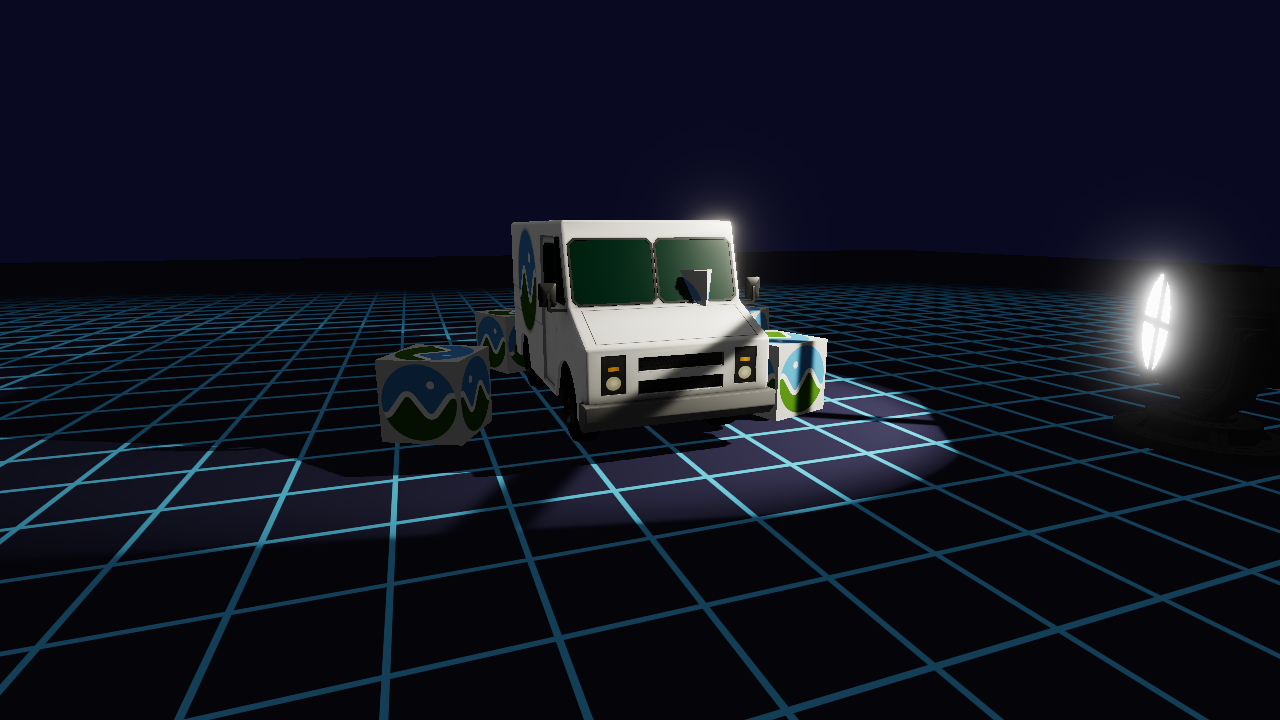
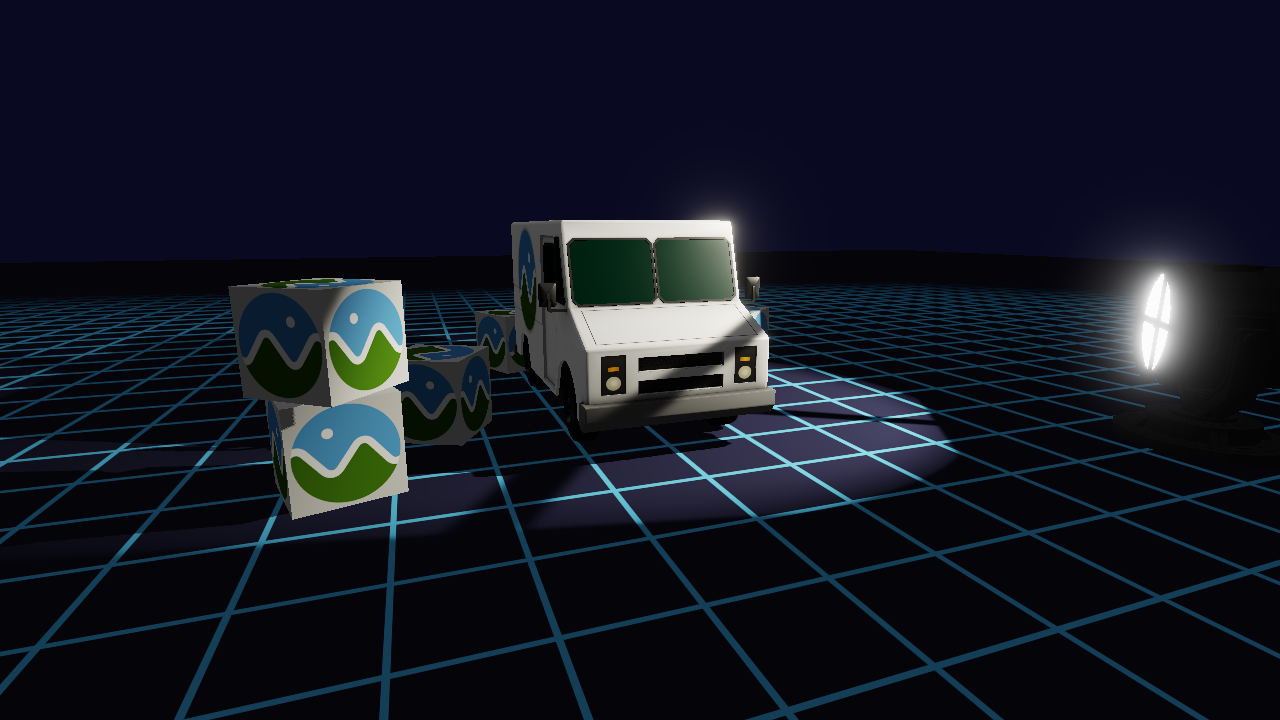
Move crates away from truck to avoid clipping
Relocated the first crate and its stacked partner from (2.0, 0.5, 1.0)
to (-3.5, 0.5, 2.0), clearing the milk truck's cargo area. Updated
screenshot to match.

Changed region(s): [[0.0, 0.3667, 0.3438, 0.7639], [0.5938, 0.4583, 0.6562, 0.5806], [0.5312, 0.3667, 0.5625, 0.4278]]

diff --git a/lessons/gpu/24-gobo-spotlight/main.c b/lessons/gpu/24-gobo-spotlight/main.c
@@ -1092,11 +1092,11 @@ static void generate_box_placements(app_state *state)
 {
     /* Scatter crates in the spotlight's target area. */
     const vec3 positions[BOX_COUNT] = {
-        {  2.0f, 0.5f,  1.0f },
+        { -3.5f, 0.5f,  2.0f },
         { -2.5f, 0.5f,  0.5f },
         {  3.0f, 0.5f, -2.0f },
         { -1.0f, 0.5f, -3.0f },
-        {  0.5f, 1.5f,  1.0f },  /* stacked on first crate */
+        { -3.5f, 1.5f,  2.0f },  /* stacked on first crate */
     };
     const float rotations[BOX_COUNT] = {
         0.3f, 1.1f, 0.7f, 2.0f, 0.9f
